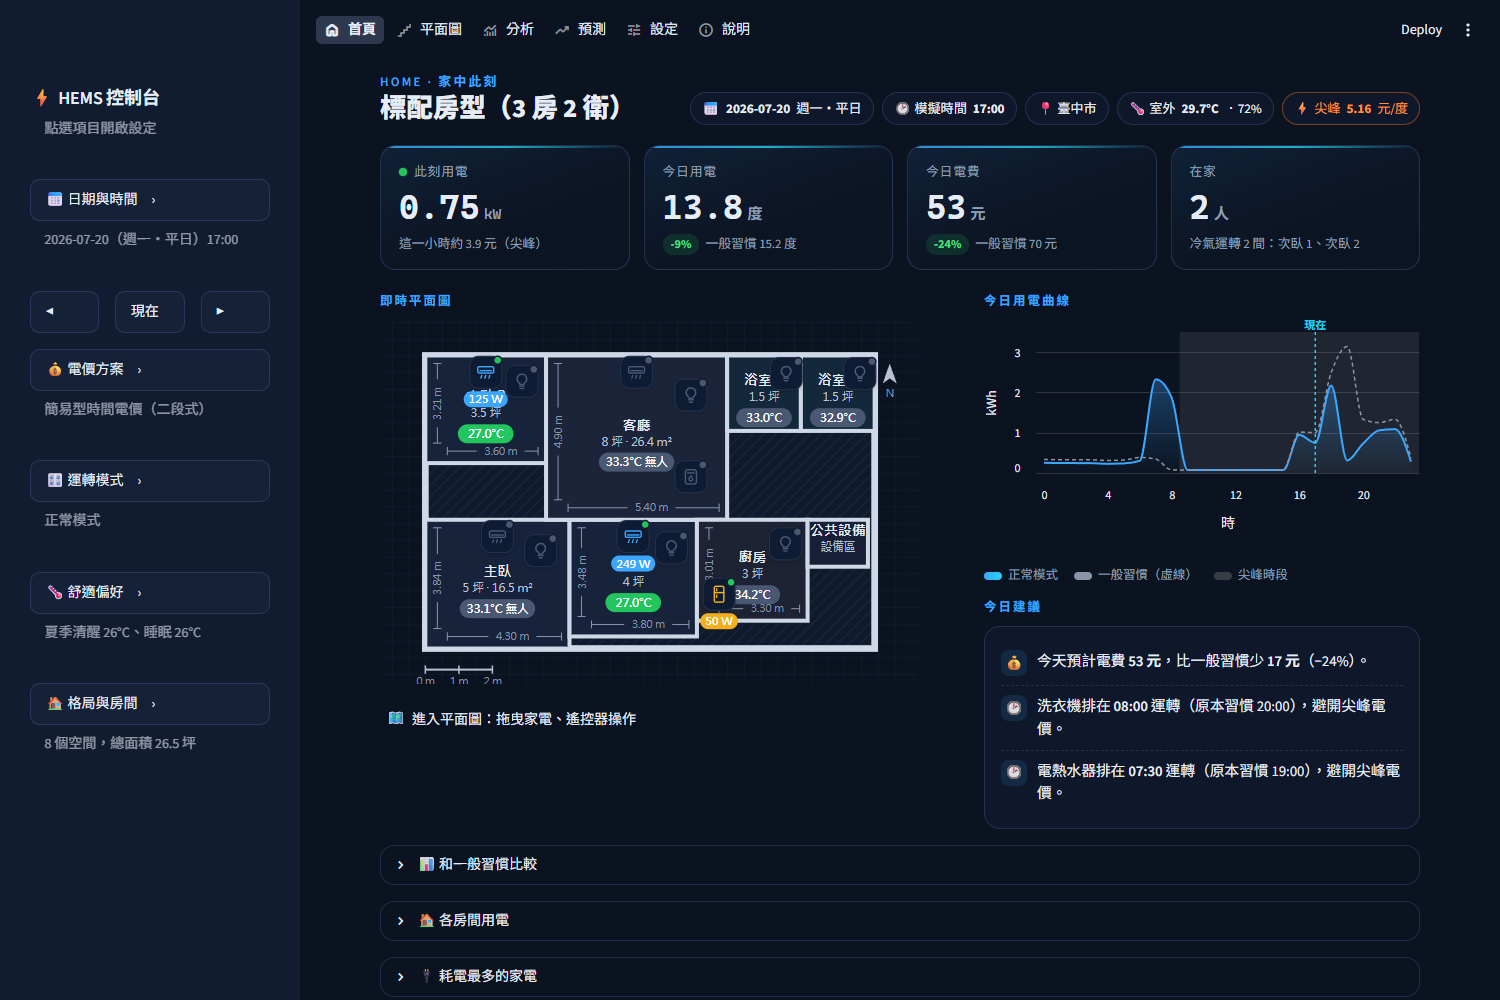
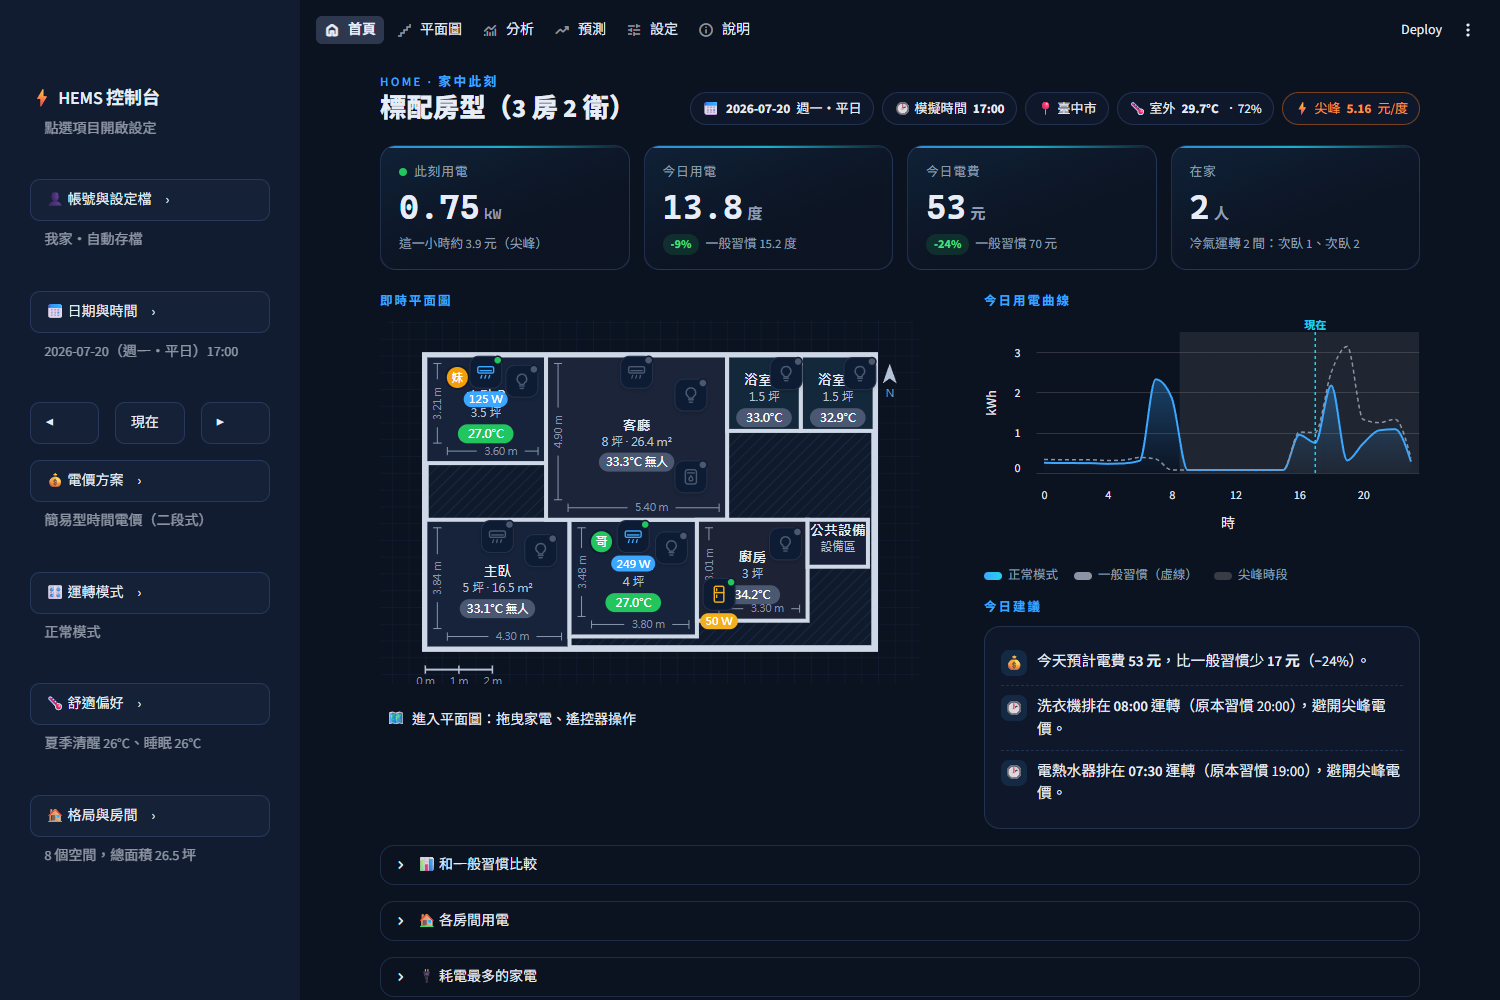
新增 README：專案介紹、成果、功能、架構、技術重點、快速開始、資料來源；更新首頁截圖

diff --git a/README.md b/README.md
@@ -1,0 +1,150 @@
+# 居家能源管理系統（HEMS）模擬與最佳化平台
+
+以**物理模型**推演一個家庭 24 小時、每個房間的冷房負載與家電用電，並以**最佳化**在電費與舒適度之間取得平衡；
+提供互動式介面，讓使用者客製化自己的房型、家電與作息，比較不同運轉模式的結果。
+
+> 作者為冷凍空調系畢業生，修習綠建築課程時研究建築能源管理系統（BEMS），本專案將其應用於居家場域。
+
+![首頁：家中此刻](docs/images/ui_home.png)
+
+## 一眼看懂成果
+
+以台中一家四口（雙薪、兩個小孩）、標配 3 房 2 衛為例，2026 年 7 月整月模擬（中央氣象署臺中測站實測天氣、台電現行電價）：
+
+| 情境 | 月用電 | 月電費 | 舒適時間比例 |
+|---|---|---|---|
+| 一般習慣（有人就開冷氣、整天 25°C、晚上燒熱水洗衣） | 562 度 | 2,184 元（二段式時間電價） | 59% |
+| **正常模式 ＋ 累進電價**（系統建議） | **507 度** | **1,429 元（−35%）** | **98%** |
+
+- 一般習慣整夜 25°C，入睡後反而偏冷：**溫度範圍與 ISO 7730 PMV 兩種指標都判定「又耗電又不舒服」**。
+- 雙薪家庭冷氣集中在晚間尖峰、無法移轉，**即使最佳化後，累進電價仍比時間電價便宜**——系統會依數據給出這類建議，而不是一律建議改時間電價。
+
+## 主要功能
+
+| 頁面 | 功能 |
+|---|---|
+| 🏠 **首頁** | 家中此刻：即時用電、今日用電與電費（與一般習慣比較）、在家人數、唯讀平面圖、今日用電曲線、今日建議 |
+| 🗺 **平面圖** | 建築平面圖（尺寸標註、室溫舒適標籤）；**拖曳家電**到其他房間、**遙控器**開關冷氣電燈（模擬立即重算）；**家庭成員依作息移動**，點選看個人作息、拖曳＝臨時變動 |
+| 📊 **分析** | 今日明細、四種模式比較、家電排程甘特圖、各房間逐時室溫、整月分析與節省建議（可下載報告） |
+| 📈 **預測** | 本月／下月用電與電費（製作中） |
+| ⚙ **設定** | 房型（空間範本 × 數量）、家電功率、作息時間、比較基準 |
+| 👤 **帳號與設定檔** | 自動存檔、多組設定檔（例如「我家」「爸媽家」）、匯出／匯入 JSON；網頁版需登入 |
+
+| 平面圖：遙控器與家電 | 平面圖：家庭成員與個人作息 |
+|---|---|
+| ![平面圖](docs/images/ui_floorplan_dark.png) | ![家庭成員](docs/images/ui_people.png) |
+
+## 系統架構（五層）
+
+```
+輸入層   房型（範本 × 數量）、家庭作息、中央氣象署逐時天氣、台電電價          config/、data/、core/data_source.py、core/tariff.py
+  ↓
+模擬層   作息 → 每人每分鐘在哪個房間；冷房負載 → 冷氣耗電；其他家電依活動運轉  core/schedule.py、core/load_model.py、core/simulator.py
+  ↓
+最佳化層 四種模式＝同一套目標函數＋不同參數                                    core/optimizer.py、config/modes.json
+  ↓
+分析層   用電、電費、尖峰、需量、碳排、舒適度（PMV/PPD）、節省建議、模型校正   core/metrics.py
+  ↓
+介面層   Streamlit 多頁面＋自訂平面圖元件（HTML/SVG/JS）＋資料庫               app.py、ui/、core/storage.py
+```
+
+## 技術重點
+
+### 冷房負載與冷氣耗電（冷凍空調專業）
+- 冷房負載 = 外牆（**等效日射溫度＋牆體時滯與衰減**）＋窗戶傳熱與日射＋人體顯熱／潛熱（ASHRAE）
+  ＋家電發熱＋外氣滲透（**濕空氣線圖計算潛熱**）＋開機時的**蓄熱移除**
+- 冷氣耗電 = 冷房負載 ÷ COP；COP 隨室外溫度、設定溫度與**變頻部分負載率**（含低負載啟停損失）修正
+- 冷氣沒開時，室溫以**一階熱響應（1R1C）**計算：時間常數 τ = 熱容量 C ÷ 熱傳係數 UA
+- 參數集中在 `config/load_params.json`，每個數值註明來源或標示「估計」
+
+### 最佳化
+- 四種模式（省電、正常、效能、舒眠）**不是寫死的規則**，而是同一個目標函數：
+  `最小化 電費 + 舒適權重 × Σ 人數 × max(0, |室溫 − 偏好溫度| − 容許偏差)²`，搭配不同參數
+- 冷氣設定溫度：**座標下降法**，每次以負載模型推演整天評估（室溫有蓄熱，前後小時互相影響）
+- 可移轉負載（熱水器 × 洗衣機 × 烘衣機）：開始時間**聯合窮舉**（全域最佳），限制包含洗澡前燒好熱水
+  （含儲水桶散熱損失）、烘衣接續洗衣、睡眠時段安靜、**需量懲罰**讓大功率家電錯開
+- 舒眠模式：入睡後依睡眠曲線逐步調高設定溫度、起床前回溫
+
+### 舒適度與驗證
+- **ISO 7730 PMV/PPD** 熱舒適模型（以標準附錄範例驗證），與溫度範圍指標交叉驗證
+- **ASHRAE Guideline 14** 模型校正指標（NMBE、CV(RMSE)），可用智慧插座／電表 CSV 比對模擬與實測
+
+### 軟體工程
+- **資料來源介面**：天氣與用電都有共同介面（`WeatherSource`、`MeterSource`），模擬資料與未來的感測器資料走同一個入口
+- **資料層**：SQLAlchemy 同一套程式支援本機 SQLite 與雲端 PostgreSQL；密碼以 PBKDF2-SHA256 加鹽雜湊
+- **自訂 Streamlit 元件**：平面圖以 HTML/SVG/JavaScript 撰寫，手寫元件通訊協定與 Python 雙向溝通
+- **快取**：設定序列化為 JSON 作為快取 key；平面圖上的圖示位置不影響模擬快取
+- **測試**：149 項 pytest（物理公式、能量守恆、最佳化取捨、資料庫、介面 AppTest 等）
+
+## 快速開始
+
+需求：Windows、Python 3.11 以上。
+
+```powershell
+git clone https://github.com/Mark666941/hems.git
+cd hems
+python -m venv .venv
+.\.venv\Scripts\Activate.ps1
+pip install -r requirements-desktop.txt
+```
+
+開啟方式（擇一）：
+
+| 方式 | 指令 |
+|---|---|
+| 桌面視窗 | `python run_app.py` |
+| 瀏覽器 | `streamlit run app.py` |
+| VS Code | 按 F5，選「HEMS 介面（桌面視窗）」 |
+| 桌面捷徑 | `python scripts\make_icon.py`、`python scripts\create_shortcut.py`，之後雙擊桌面圖示 |
+
+命令列工具：
+
+```powershell
+python -m core.simulator --month 2026-07     # 整月推演＋三種電價月電費
+python -m core.optimizer 2026-07-20          # 四種模式比較
+python -m core.metrics --month 2026-07       # 整月指標、節省建議、Markdown 報告
+python -m core.metrics --calibrate data/meter/demo_synthetic_2026-07.csv   # ASHRAE Guideline 14 模型校正示範
+pytest -q                                    # 全部測試
+```
+
+網頁版部署：設定環境變數 `HEMS_DATABASE_URL`（或 Streamlit secrets 的 `database.url`）為 PostgreSQL 網址即會啟用帳號登入；
+本機可用 `HEMS_REQUIRE_LOGIN=1` 展示登入流程。
+
+## 專案結構
+
+```
+hems/
+├── app.py                 # Streamlit 入口：主題、左側設定選單、頂端導覽
+├── run_app.py             # 一鍵啟動（桌面視窗／瀏覽器）
+├── core/                  # 模型與演算法（不依賴介面）
+│   ├── models.py          # 空間、家電、房屋、家庭成員
+│   ├── data_source.py     # 資料來源介面（天氣、用電：模擬／感測器）
+│   ├── tariff.py          # 台電電價：時段、費率、離峰日、月電費
+│   ├── schedule.py        # 作息：每人每分鐘的位置與活動
+│   ├── load_model.py      # 冷房負載、冷氣 COP、家電耗電、可移轉工作
+│   ├── simulator.py       # 24 小時推演引擎（ControlPlan → SimulationResult）
+│   ├── optimizer.py       # 四種模式的最佳化
+│   ├── metrics.py         # 指標、PMV/PPD、模式比較、節省建議、模型校正
+│   └── storage.py         # 資料層：帳號與設定檔
+├── ui/                    # 介面：頁面、圖表、平面圖元件、設定轉換、帳號
+├── config/                # 房型範本、家電、作息、模式參數、電價、負載參數（JSON）
+├── data/                  # 中央氣象署逐時天氣（2026 年 1–9 月）、示範電表資料
+├── scripts/               # 天氣下載、圖示與桌面捷徑、夜間自動任務
+├── docs/                  # 圖表與報告範例
+└── tests/                 # pytest
+```
+
+## 資料來源
+
+- 天氣：中央氣象署 CODiS 臺中測站（467490）逐時觀測，2026 年 1–9 月
+- 電價：台電「各類電價表及計算範例」（114 年 10 月 1 日起實施）
+- 人體發熱：ASHRAE Fundamentals；熱舒適：ISO 7730；模型校正：ASHRAE Guideline 14
+- 碳排係數：經濟部能源署 113 年度電力排碳係數（0.474 kg CO2e/度）
+
+## 限制與未來方向
+
+- 系統只模擬冷氣，沒有暖氣（台中冬季少用暖氣）；冬季舒適度主要受天氣影響
+- 各房間獨立計算，房間之間的熱交換規劃中
+- 參數為台灣常見 RC 公寓典型值，可用智慧插座／電表實測資料依 ASHRAE Guideline 14 校正
+- 規劃中：機器學習用電預測（物理＋資料混合模型）、窗戶方位與西曬、室內濕度、即時天氣（選到鄉鎮市區）、
+  真實智慧插座串接
